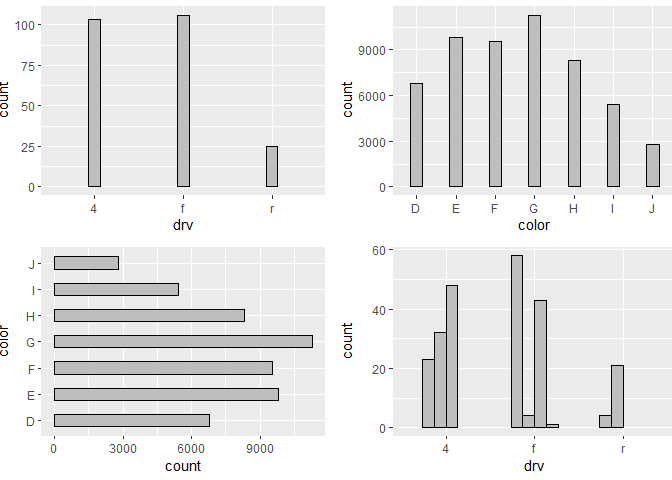
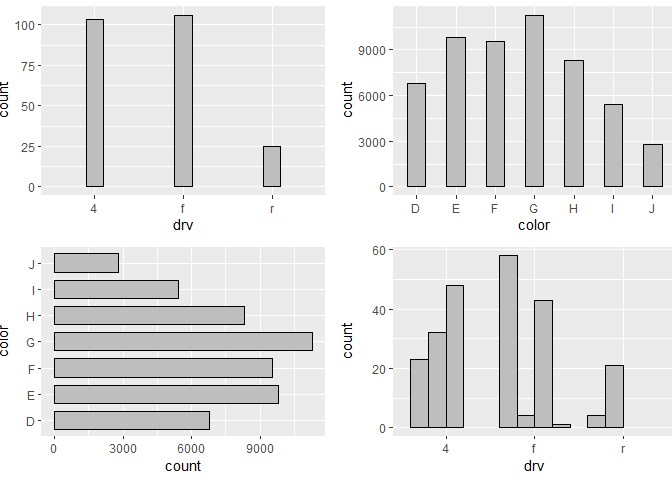
Update

diff --git a/README.md b/README.md
@@ -49,10 +49,6 @@ set_theme(
     theme(panel.heights = rep(unit(50, "mm"), 2))
 )
 
-set_equiwidth(1)
-```
-
-``` r
 p1 <- mpg |>
   ggplot(aes(x = drv)) +
   geom_bar(

diff --git a/NEWS.md b/NEWS.md
@@ -1,3 +1,8 @@
+# ggwidth (development)
+
+* Rescaled width.
+* Renamed set_equiwidth to update_equiwidth.
+
 # ggwidth 0.1.2
 
 * Refactored code.
